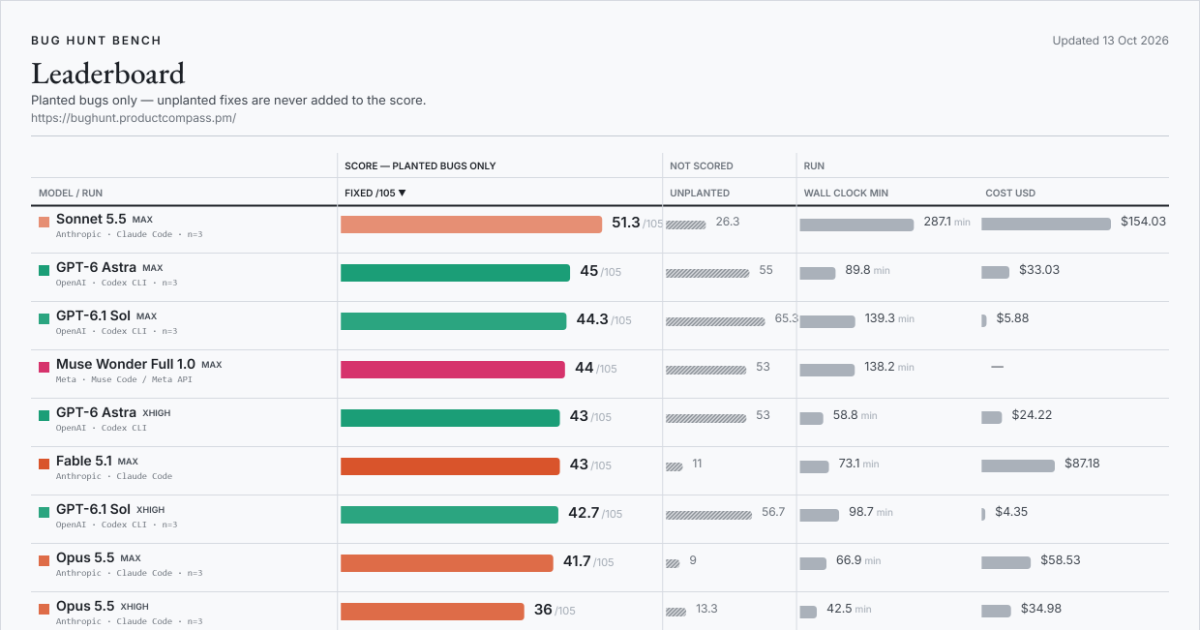
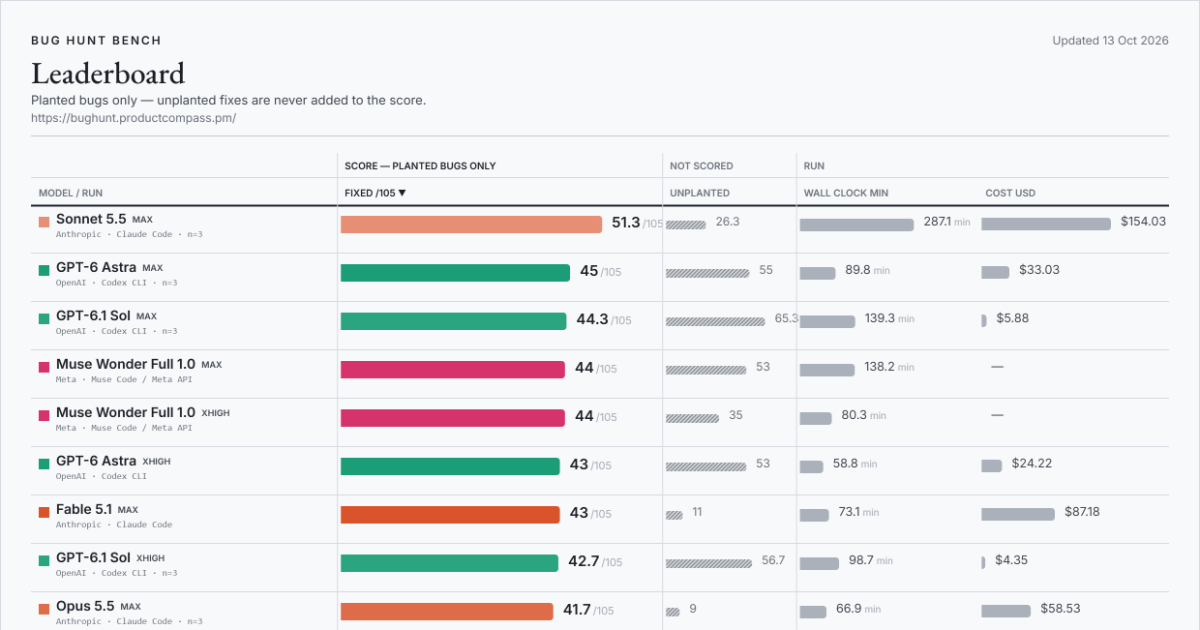
bug hunt bench: Muse Wonder Full 1.0 (xhigh effort, Muse Code, Meta API) (44/105)

diff --git a/index.html b/index.html
@@ -22,14 +22,14 @@
 <meta property="og:title" content="Bug Hunt Bench — frontier coding models against real planted bugs">
 <meta property="og:description" content="A blind-graded benchmark of frontier coding models on real bugs planted in two production codebases. The score counts planted bugs only; extra fixes are tracked separately and never added.">
 <meta property="og:url" content="https://bughunt.productcompass.pm/">
-<meta property="og:image" content="https://bughunt.productcompass.pm/og-image.png?v=2026-10-13-246ea0fc">
+<meta property="og:image" content="https://bughunt.productcompass.pm/og-image.png?v=2026-10-13-b0c07f66">
 <meta property="og:image:width" content="1200">
 <meta property="og:image:height" content="630">
 <meta property="og:image:alt" content="Bug Hunt Bench leaderboard">
 <meta name="twitter:card" content="summary_large_image">
 <meta name="twitter:title" content="Bug Hunt Bench — frontier coding models against real planted bugs">
 <meta name="twitter:description" content="A blind-graded benchmark of frontier coding models on real bugs planted in two production codebases. The score counts planted bugs only.">
-<meta name="twitter:image" content="https://bughunt.productcompass.pm/og-image.png?v=2026-10-13-246ea0fc">
+<meta name="twitter:image" content="https://bughunt.productcompass.pm/og-image.png?v=2026-10-13-b0c07f66">
 <meta name="twitter:creator" content="@PawelHuryn">
 
 <link rel="icon" href="/assets/favicon.svg" type="image/svg+xml">

diff --git a/method.html b/method.html
@@ -20,14 +20,14 @@
 <meta property="og:title" content="Method, caveats and definitions — Bug Hunt Bench">
 <meta property="og:description" content="How Bug Hunt Bench is run and graded, what the board cannot tell you, and what every column on it means.">
 <meta property="og:url" content="https://bughunt.productcompass.pm/method">
-<meta property="og:image" content="https://bughunt.productcompass.pm/og-image.png?v=2026-10-13-246ea0fc">
+<meta property="og:image" content="https://bughunt.productcompass.pm/og-image.png?v=2026-10-13-b0c07f66">
 <meta property="og:image:width" content="1200">
 <meta property="og:image:height" content="630">
 <meta property="og:image:alt" content="Bug Hunt Bench leaderboard">
 <meta name="twitter:card" content="summary_large_image">
 <meta name="twitter:title" content="Method, caveats and definitions — Bug Hunt Bench">
 <meta name="twitter:description" content="How Bug Hunt Bench is run and graded, what the board cannot tell you, and what every column on it means.">
-<meta name="twitter:image" content="https://bughunt.productcompass.pm/og-image.png?v=2026-10-13-246ea0fc">
+<meta name="twitter:image" content="https://bughunt.productcompass.pm/og-image.png?v=2026-10-13-b0c07f66">
 <meta name="twitter:creator" content="@PawelHuryn">
 
 <link rel="icon" href="/assets/favicon.svg" type="image/svg+xml">

diff --git a/README.md b/README.md
@@ -7,9 +7,9 @@
 If the numbers save you a benchmark run of your own, **star this repo** — that is what keeps the bench findable, and new models are added as they ship.
 
 <!-- leaderboard:start -->
-![Bug Hunt Bench leaderboard, the featured runs, updated Oct 13, 2026](assets/leaderboard.png?v=2026-10-13-b50dc523)
+![Bug Hunt Bench leaderboard, the featured runs, updated Oct 13, 2026](assets/leaderboard.png?v=2026-10-13-9cc1eea6)
 
-**Updated Oct 13, 2026 · 177 rows from 215 scored runs · 46 models · 29 of 105 bugs have never been fixed by any model.**
+**Updated Oct 13, 2026 · 178 rows from 216 scored runs · 46 models · 28 of 105 bugs have never been fixed by any model.**
 
 **Current leader:** Sonnet 5.5 at `max` effort — **51.3 / 105** (22.7/45 on repo 1, 28.7/60 on repo 2).
 
@@ -21,114 +21,115 @@ If the numbers save you a benchmark run of your own, **star this repo** — that
 | 2 | GPT-6 Astra | Codex CLI | max | 3 | **45** | 22 | 23 | 55 | 90 min | $33.03 | 2026-09-14 |
 | 3 | GPT-6.1 Sol | Codex CLI | max | 3 | **44.3** | 22.3 | 22 | 65.3 | 139 min | $5.88 | 2026-09-30 |
 | 4 | Muse Wonder Full 1.0 | Muse Code / Meta API | max | 1 | **44** | 22 | 22 | 53 | 138 min | — | 2026-10-13 |
-| 5 | GPT-5.6 Sol | Codex CLI | max | 2 | **43.5** | 19 | 24.5 | 48.5 | 253 min | $95.35 | 2026-09-16 |
-| 6 | GPT-6 Astra | Codex CLI | xhigh | 1 | **43** | 23 | 20 | 53 | 59 min | $24.22 | 2026-09-04 |
-| 7 | Fable 5.1 | Claude Code | max | 1 | **43** | 19 | 24 | 11 | 73 min | $87.18 | 2026-09-01 |
-| 8 | GPT-6.1 Sol | Codex CLI | xhigh | 3 | **42.7** | 22.3 | 20.3 | 56.7 | 99 min | $4.35 | 2026-09-30 |
-| 9 | Opus 5.5 | Claude Code | max | 3 | **41.7** | 19 | 22.7 | 9 | 67 min | $58.53 | 2026-09-23 |
-| 10 | GPT-5.6 Sol | Codex CLI | xhigh | 1 | **39** | 18 | 21 | 59 | 126 min | $52.75 | 2026-08-28 |
-| 11 | GPT-6.1 Sol | Codex CLI | high | 2 | **36.5** | 17 | 19.5 | 40 | 70 min | $3.26 | 2026-09-30 |
-| 12 | Opus 5.5 | Claude Code | xhigh | 3 | **36** | 17 | 19 | 13.3 | 42 min | $34.98 | 2026-09-23 |
-| 13 | Sonnet 5.5 | Claude Code | xhigh | 3 | **36** | 16 | 20 | 14 | 73 min | $42.86 | 2026-09-29 |
-| 14 | GPT-6 Astra | Codex CLI | high | 1 | **35** | 19 | 16 | 40 | 40 min | $20.60 | 2026-09-04 |
-| 15 | Sonnet 5.5 | Claude Code | high | 3 | **34.3** | 15.7 | 18.7 | 10.7 | 28 min | $19.85 | 2026-09-29 |
-| 16 | GPT-6 Astra | Codex CLI | medium | 1 | **34** | 19 | 15 | 33 | 28 min | $15.78 | 2026-09-05 |
-| 17 | GPT-5.6 Sol | Codex CLI | high | 1 | **34** | 13 | 21 | 28 | 67 min | $33.92 | 2026-07-31 |
-| 18 | Gemini 4 Argon | Gemini CLI | high | 1 | **33** | 15 | 18 | 7 | 85 min | $32.08 | 2026-10-13 |
-| 19 | Fable 5.1 | Claude Code | high | 1 | **33** | 15 | 18 | 7 | 36 min | $48.58 | 2026-09-01 |
-| 20 | Muse Spark 1.3 | Muse Code / Meta API | max | 5 | **32.2** | 14.2 | 18 | 24 | 86 min | $18.11 | 2026-09-17 |
-| 21 | GPT-5.6 Terra | Codex CLI | max | 1 | **32** | 16 | 16 | 45 | 160 min | $27.98 | 2026-08-27 |
-| 22 | Opus 5.5 | Claude Code | high | 3 | **31.7** | 13 | 18.7 | 10.7 | 24 min | $22.25 | 2026-09-23 |
-| 23 | Muse Wonder 1.0 | Muse Code / Meta API | max | 3 | **31.7** | 12 | 19.7 | 13.3 | 96 min | $27.87 | 2026-10-13 |
-| 24 | GPT-5.6 Luna | Codex CLI | max | 3 | **31.3** | 16 | 15.3 | 54.7 | 187 min | $3.15 | 2026-09-22 |
-| 25 | Pareto (ex-Union Alpha) | Claude Code / OpenRouter | default | 3 | **30.7** | 16 | 14.7 | 10.3 | 38 min | $4.81 | 2026-09-17 |
-| 26 | Opus 5.5 | Claude Code | medium | 3 | **30.3** | 12.7 | 17.7 | 13.3 | 17 min | $15.68 | 2026-09-23 |
-| 27 | GPT-6 Sol | Codex CLI | max | 3 | **29.3** | 15.3 | 14 | 41.3 | 63 min | $9.33 | 2026-09-23 |
-| 28 | GPT-6.1 Sol | Codex CLI | medium | 2 | **29** | 16 | 13 | 30.5 | 30 min | $1.76 | 2026-09-30 |
-| 29 | GPT-5.6 Sol | Codex CLI | medium | 1 | **29** | 13 | 16 | 24 | 48 min | $15.77 | 2026-09-06 |
-| 30 | Grok 4.7 | Grok Build CLI (ACP) | xhigh | 5 | **29** | 13 | 16 | 32.2 | 45 min | $22.96 floor | 2026-10-08 |
-| 31 | Fable 5.1 | Claude Code | low | 1 | **29** | 13 | 16 | 6 | 33 min | $33.00 | 2026-09-02 |
-| 32 | Fable 5.1 | Claude Code | xhigh | 1 | **29** | 13 | 16 | 4 | 60 min | $53.61 | 2026-09-10 |
-| 33 | Fable 5 | Claude Code | max | 1 | **29** | 12 | 17 | 5 | 57 min | $112.40 | 2026-08-01 |
-| 34 | Grok 4.6 | Grok Build CLI (ACP) | xhigh | 3 | **28.7** | 11.7 | 17 | 18 | 43 min | $18.60 floor | 2026-09-14 |
-| 35 | GPT-6 Astra | Codex CLI | low | 1 | **27** | 18 | 9 | 25 | 32 min | $11.69 | 2026-09-05 |
-| 36 | Opus 5 | Claude Code | max | 1 | **27** | 13 | 14 | 2 | 60 min | $54.94 | 2026-08-01 |
-| 37 | Grok 4.7 | Grok Build CLI (ACP) | medium | 3 | **26.7** | 12 | 14.7 | 22.7 | 31 min | $16.76 floor | 2026-09-21 |
-| 38 | Qwen3.8-Flash | Claude Code / Alibaba API | max | 1 | **26** | 13 | 13 | 7 | 97 min | $1.81 | 2026-09-11 |
-| 39 | Opus 5 | Claude Code | xhigh | 1 | **26** | 14 | 12 | 3 | 50 min | $63.25 | 2026-08-28 |
-| 40 | Qwen3.8-Max | Claude Code / Alibaba API | max | 3 | **25.7** | 12.3 | 13.3 | 7 | 117 min | $26.76 | 2026-09-15 |
-| 41 | GPT-6 Sol | Codex CLI | xhigh | 1 | **25** | 10 | 15 | 24 | 51 min | $7.67 | 2026-09-23 |
-| 42 | Opus 5 | Claude Code | medium | 1 | **24** | 11 | 13 | 4 | 30 min | $37.40 | 2026-08-27 |
-| 43 | Fable 5 | Claude Code | high | 1 | **24** | 9 | 15 | 3 | 31 min | $74.52 | 2026-07-26 |
-| 44 | MiMo-V2.6-Flash | Claude Code / OpenRouter | default | 3 | **23.3** | 8 | 15.3 | 7.3 | 71 min | $0.49 bill | 2026-09-22 |
-| 45 | Sonnet 5.5 | Claude Code | medium | 3 | **23.3** | 8.7 | 14.7 | 8.7 | 17 min | $11.11 | 2026-09-30 |
-| 46 | Qwen3.8-Flash | Claude Code / Alibaba API | low | 1 | **23** | 11 | 12 | 7 | 98 min | $1.37 | 2026-09-11 |
-| 47 | GPT-5.6 Luna | Codex CLI | xhigh | 1 | **23** | 10 | 13 | 53 | 136 min | $2.50 | 2026-08-28 |
-| 48 | Grok 4.6 | Grok Build CLI (ACP) | high | 1 | **23** | 7 | 16 | 16 | 33 min | $15.73 floor | 2026-08-28 |
-| 49 | MiMo-V2.6-Pro | Claude Code / OpenRouter | default | 3 | **22.7** | 11.3 | 11.3 | 5.3 | 91 min | $0.86 bill | 2026-09-22 |
-| 50 | GPT-6.1 Sol | Codex CLI | low | 2 | **22.5** | 11.5 | 11 | 24 | 25 min | $1.34 | 2026-10-01 |
-| 51 | Opus 5.5 | Claude Code | low | 3 | **22.3** | 11.3 | 11 | 9.7 | 12 min | $8.34 | 2026-09-23 |
-| 52 | Grok 4.6 | Grok Build CLI (ACP) | medium | 1 | **22** | 9 | 13 | 11 | 26 min | $5.80 floor | 2026-08-28 |
-| 53 | Gemini 3.7 Flash | Gemini CLI (retired) + model-pinning gateway | high | 1 | **22** | 8 | 14 | 4 | 97 min | $8.43 | 2026-08-24 |
-| 54 | DeepSeek V4.1 Flash | Claude Code / DeepSeek API | max | 3 | **21.7** | 11.3 | 10.3 | 6.7 | 56 min | $0.78 bill | 2026-09-15 |
-| 55 | Haiku 5.5 | Claude Code | max | 2 | **21.5** | 10 | 11.5 | 9 | 32 min | $5.83 | 2026-10-07 |
-| 56 | Fable 5.1 | Claude Code | medium | 1 | **21** | 8 | 13 | 3 | 23 min | $23.73 | 2026-09-10 |
-| 57 | Kimi K3 | Claude Code / OpenRouter | default | 1 | **21** | 4 | 17 | 6 | 108 min | $25.27 | 2026-07-26 |
-| 58 | Opus 5 | Claude Code | high | 1 | **21** | 11 | 10 | 6 | 37 min | $41.51 | 2026-07-26 |
-| 59 | Muse Spark 1.3 | Muse Code / Meta API | xhigh | 3 | **20.3** | 8 | 12.3 | 13.3 | 64 min | $13.71 | 2026-09-14 |
-| 60 | GPT-6 Sol | Codex CLI | high | 1 | **20** | 10 | 10 | 15 | 34 min | $4.16 | 2026-09-23 |
-| 61 | GPT-5.6 Terra | Codex CLI | xhigh | 1 | **20** | 9 | 11 | 29 | 57 min | $8.98 | 2026-08-28 |
-| 62 | Grok 4.7 | Grok Build CLI (ACP) | high | 3 | **19.3** | 8.7 | 10.7 | 15.7 | 38 min | $12.29 floor | 2026-09-21 |
-| 63 | DeepSeek V4.1 Flash | Claude Code / DeepSeek API | high | 1 | **19** | 9 | 10 | 4 | 26 min | $0.31 bill | 2026-09-10 |
-| 64 | Sonnet 5.5 | Claude Code | low | 3 | **19** | 6.7 | 12.3 | 8 | 8 min | $5.73 | 2026-09-30 |
-| 65 | GLM-5.3 | Claude Code / Z.ai API | max | 1 | **19** | 9 | 10 | 2 | 40 min | $15.93 | 2026-09-10 |
-| 66 | Muse Spark 1.3 | Muse Code / Meta API | high | 3 | **18.7** | 8.7 | 10 | 19.3 | 76 min | $12.94 | 2026-09-14 |
-| 67 | GPT-6 Luna | Codex CLI | max | 3 | **18.3** | 6.3 | 12 | 22.7 | 99 min | $0.52 | 2026-09-23 |
-| 68 | Haiku 5.5 | Claude Code | xhigh | 3 | **18.3** | 9 | 9.3 | 6.7 | 24 min | $4.80 | 2026-10-07 |
-| 69 | MiMo-V2.6-Pro | Claude Code / Xiaomi first-party | enabled | 1 | **18** | 9 | 9 | 4 | 75 min | $0.59 | 2026-09-22 |
-| 70 | Hy4 Preview | Claude Code / OpenRouter | default | 1 | **18** | 9 | 9 | 2 | 68 min | $3.13 bill | 2026-08-28 |
-| 71 | GPT-5.6 Terra | Codex CLI | high | 1 | **18** | 7 | 11 | 17 | 28 min | $5.89 | 2026-08-27 |
-| 72 | Gemini 3.8 Flash | Antigravity CLI | high | 3 | **18** | 6.7 | 11.3 | 4 | 39 min | $11.03 | 2026-09-15 |
-| 73 | GLM-5.3 Flash | Claude Code / Z.ai API | max | 3 | **17.7** | 9.3 | 8.3 | 3.3 | 63 min | $1.03 | 2026-09-15 |
-| 74 | Grok 4.5 | Grok Build CLI (ACP) | high | 1 | **17** | 5 | 12 | 10 | 28 min | $8.50 floor | 2026-08-06 |
-| 75 | Muse Spark 1.2 | Claude Code / Meta API | xhigh | 1 | **17** | 6 | 11 | 12 | 36 min | $13.99 | 2026-08-06 |
-| 76 | Ox Alpha (stealth) | Claude Code / OpenRouter | default | 1 | **16** | 8 | 8 | 3 | 59 min | free | 2026-08-25 |
-| 77 | GLM-5.3 Flash | Claude Code / Z.ai API | high | 1 | **16** | 9 | 7 | 4 | 62 min | $0.94 | 2026-09-13 |
-| 78 | DeepSeek V4-Pro | Claude Code / DeepSeek API | max | 1 | **16** | 8 | 8 | 4 | 37 min | $1.89 bill | 2026-09-10 |
-| 79 | Haiku 5.5 | Claude Code | high | 2 | **16** | 5 | 11 | 4 | 19 min | $3.56 | 2026-10-07 |
-| 80 | Gemini 3.7 Flash | Antigravity CLI | high | 1 | **16** | 4 | 12 | 2 | 23 min | $6.36 | 2026-08-28 |
-| 81 | Grok 4.7 | Grok Build CLI (ACP) | low | 3 | **15.7** | 10.3 | 5.3 | 18.3 | 22 min | $9.36 floor | 2026-09-21 |
-| 82 | GPT-5.6 Terra | Codex CLI | medium | 1 | **15** | 4 | 11 | 6 | 20 min | $3.87 | 2026-08-27 |
-| 83 | Grok 4.6 | Grok Build CLI (ACP) | low | 1 | **15** | 6 | 9 | 9 | 18 min | $4.14 floor | 2026-08-27 |
-| 84 | Qwen3.8-27B | Claude Code / Alibaba API | xhigh | 3 | **15** | 5.7 | 9.3 | 2.3 | 57 min | $5.55 | 2026-09-15 |
-| 85 | Mistral Large 4 | Claude Code / OpenRouter | high | 3 | **15** | 5 | 10 | 3.3 | 111 min | $11.95 bill | 2026-10-07 |
-| 86 | Opus 4.8 | Claude Code | max | 1 | **15** | 6 | 9 | 3 | 109 min | $58.11 | 2026-09-10 |
-| 87 | GPT-6 Luna | Codex CLI | xhigh | 1 | **14** | 4 | 10 | 12 | 57 min | $0.39 | 2026-09-23 |
-| 88 | DeepSeek V4-Flash | Claude Code / OpenRouter | default | 1 | **14** | 6 | 8 | 0 | 48 min | $1.52 bill | 2026-08-01 |
-| 89 | GPT-6 Sol | Codex CLI | medium | 1 | **14** | 3 | 11 | 13 | 24 min | $2.39 | 2026-09-23 |
-| 90 | GPT-5.6 Luna | Codex CLI | high | 1 | **13** | 5 | 8 | 22 | 64 min | $0.57 | 2026-07-31 |
-| 91 | GLM-5.3 Flash | Claude Code / OpenRouter | default | 1 | **13** | 6 | 7 | 4 | 57 min | $0.79 bill | 2026-08-27 |
-| 92 | DeepSeek V4-Pro | Claude Code / DeepSeek API | high | 1 | **13** | 4 | 9 | 1 | 27 min | $1.08 bill | 2026-09-10 |
-| 93 | Muse Spark 1.3 | Muse Code / Meta API | medium | 3 | **13** | 5.3 | 7.7 | 17.3 | 58 min | $9.24 | 2026-09-14 |
-| 94 | Haiku 5.5 | Claude Code | medium | 1 | **12** | 5 | 7 | 4 | 16 min | $2.66 | 2026-10-08 |
-| 95 | Haiku 5.5 | Claude Code | low | 1 | **11** | 4 | 7 | 2 | 9 min | $1.61 | 2026-10-08 |
-| 96 | Qwen3.8-27B 8-bit | Claude Code / OpenRouter | default | 3 | **10.7** | 3.7 | 7 | 1.7 | 57 min | $2.97 bill | 2026-09-16 |
-| 97 | Muse Spark 1.3 | Muse Code / Meta API | low | 3 | **9.7** | 5 | 4.7 | 6.7 | 36 min | $5.61 | 2026-09-14 |
-| 98 | GPT-6 Luna | Codex CLI | high | 1 | **9** | 2 | 7 | 9 | 24 min | $0.13 | 2026-09-23 |
-| 99 | GPT-5.6 Luna | Codex CLI | medium | 1 | **9** | 5 | 4 | 5 | 15 min | $0.33 | 2026-08-27 |
-| 100 | GLM-5.3 Flash | Claude Code / Z.ai API | low | 1 | **9** | 7 | 2 | 4 | 29 min | $0.42 | 2026-09-13 |
-| 101 | Sonnet 5 | Claude Code | high | 1 | **9** | 1 | 8 | 4 | 33 min | $11.38 | 2026-07-26 |
-| 102 | Sonnet 5 | Claude Code | max | 1 | **9** | 3 | 6 | 3 | 61 min | $17.96 | 2026-09-10 |
-| 103 | Opus 4.8 | Claude Code | high | 1 | **9** | 2 | 7 | 1 | 35 min | $21.30 | 2026-07-26 |
-| 104 | GPT-6 Sol | Codex CLI | low | 1 | **6** | 3 | 3 | 5 | 11 min | $1.08 | 2026-09-23 |
-| 105 | GPT-6 Luna | Codex CLI | medium | 1 | **4** | 2 | 2 | 0 | 9 min | $0.06 | 2026-09-23 |
-| 106 | GPT-5.6 Luna | Codex CLI | low | 1 | **4** | 0 | 4 | 1 | 6 min | $0.10 | 2026-08-27 |
-| 107 | GPT-6 Luna | Codex CLI | low | 1 | **4** | 1 | 3 | 9 | 19 min | $0.20 | 2026-09-23 |
-| 108 | Gemma 4 31B | Claude Code / OpenRouter | default | 1 | **4** | 1 | 3 | 2 | 222 min | $8.61 bill | 2026-09-16 |
-| 109 | Gemma 4 31B 4-bit | Claude Code / OpenRouter | default | 1 | **3** | 1 | 2 | 2 | 25 min | $0.56 bill | 2026-09-16 |
-| 110 | Haiku 4.5 | Claude Code | default | 2 | **1.5** | 0.5 | 1 | 2.5 | 17 min | $2.22 | 2026-10-08 |
-| 111 | gpt-oss-120b | Claude Code / OpenRouter | default | 3 | **0** | 0 | 0 | 0.3 | 4 min | $0.11 bill | 2026-09-15 |
-| 112 | gpt-oss-20b | Claude Code / OpenRouter | default | 3 | **0** | 0 | 0 | 0 | 7 min | $0.11 bill | 2026-09-15 |
+| 5 | Muse Wonder Full 1.0 | Muse Code / Meta API | xhigh | 1 | **44** | 16 | 28 | 35 | 80 min | — | 2026-10-13 |
+| 6 | GPT-5.6 Sol | Codex CLI | max | 2 | **43.5** | 19 | 24.5 | 48.5 | 253 min | $95.35 | 2026-09-16 |
+| 7 | GPT-6 Astra | Codex CLI | xhigh | 1 | **43** | 23 | 20 | 53 | 59 min | $24.22 | 2026-09-04 |
+| 8 | Fable 5.1 | Claude Code | max | 1 | **43** | 19 | 24 | 11 | 73 min | $87.18 | 2026-09-01 |
+| 9 | GPT-6.1 Sol | Codex CLI | xhigh | 3 | **42.7** | 22.3 | 20.3 | 56.7 | 99 min | $4.35 | 2026-09-30 |
+| 10 | Opus 5.5 | Claude Code | max | 3 | **41.7** | 19 | 22.7 | 9 | 67 min | $58.53 | 2026-09-23 |
+| 11 | GPT-5.6 Sol | Codex CLI | xhigh | 1 | **39** | 18 | 21 | 59 | 126 min | $52.75 | 2026-08-28 |
+| 12 | GPT-6.1 Sol | Codex CLI | high | 2 | **36.5** | 17 | 19.5 | 40 | 70 min | $3.26 | 2026-09-30 |
+| 13 | Opus 5.5 | Claude Code | xhigh | 3 | **36** | 17 | 19 | 13.3 | 42 min | $34.98 | 2026-09-23 |
+| 14 | Sonnet 5.5 | Claude Code | xhigh | 3 | **36** | 16 | 20 | 14 | 73 min | $42.86 | 2026-09-29 |
+| 15 | GPT-6 Astra | Codex CLI | high | 1 | **35** | 19 | 16 | 40 | 40 min | $20.60 | 2026-09-04 |
+| 16 | Sonnet 5.5 | Claude Code | high | 3 | **34.3** | 15.7 | 18.7 | 10.7 | 28 min | $19.85 | 2026-09-29 |
+| 17 | GPT-6 Astra | Codex CLI | medium | 1 | **34** | 19 | 15 | 33 | 28 min | $15.78 | 2026-09-05 |
+| 18 | GPT-5.6 Sol | Codex CLI | high | 1 | **34** | 13 | 21 | 28 | 67 min | $33.92 | 2026-07-31 |
+| 19 | Gemini 4 Argon | Gemini CLI | high | 1 | **33** | 15 | 18 | 7 | 85 min | $32.08 | 2026-10-13 |
+| 20 | Fable 5.1 | Claude Code | high | 1 | **33** | 15 | 18 | 7 | 36 min | $48.58 | 2026-09-01 |
+| 21 | Muse Spark 1.3 | Muse Code / Meta API | max | 5 | **32.2** | 14.2 | 18 | 24 | 86 min | $18.11 | 2026-09-17 |
+| 22 | GPT-5.6 Terra | Codex CLI | max | 1 | **32** | 16 | 16 | 45 | 160 min | $27.98 | 2026-08-27 |
+| 23 | Opus 5.5 | Claude Code | high | 3 | **31.7** | 13 | 18.7 | 10.7 | 24 min | $22.25 | 2026-09-23 |
+| 24 | Muse Wonder 1.0 | Muse Code / Meta API | max | 3 | **31.7** | 12 | 19.7 | 13.3 | 96 min | $27.87 | 2026-10-13 |
+| 25 | GPT-5.6 Luna | Codex CLI | max | 3 | **31.3** | 16 | 15.3 | 54.7 | 187 min | $3.15 | 2026-09-22 |
+| 26 | Pareto (ex-Union Alpha) | Claude Code / OpenRouter | default | 3 | **30.7** | 16 | 14.7 | 10.3 | 38 min | $4.81 | 2026-09-17 |
+| 27 | Opus 5.5 | Claude Code | medium | 3 | **30.3** | 12.7 | 17.7 | 13.3 | 17 min | $15.68 | 2026-09-23 |
+| 28 | GPT-6 Sol | Codex CLI | max | 3 | **29.3** | 15.3 | 14 | 41.3 | 63 min | $9.33 | 2026-09-23 |
+| 29 | GPT-6.1 Sol | Codex CLI | medium | 2 | **29** | 16 | 13 | 30.5 | 30 min | $1.76 | 2026-09-30 |
+| 30 | GPT-5.6 Sol | Codex CLI | medium | 1 | **29** | 13 | 16 | 24 | 48 min | $15.77 | 2026-09-06 |
+| 31 | Grok 4.7 | Grok Build CLI (ACP) | xhigh | 5 | **29** | 13 | 16 | 32.2 | 45 min | $22.96 floor | 2026-10-08 |
+| 32 | Fable 5.1 | Claude Code | low | 1 | **29** | 13 | 16 | 6 | 33 min | $33.00 | 2026-09-02 |
+| 33 | Fable 5.1 | Claude Code | xhigh | 1 | **29** | 13 | 16 | 4 | 60 min | $53.61 | 2026-09-10 |
+| 34 | Fable 5 | Claude Code | max | 1 | **29** | 12 | 17 | 5 | 57 min | $112.40 | 2026-08-01 |
+| 35 | Grok 4.6 | Grok Build CLI (ACP) | xhigh | 3 | **28.7** | 11.7 | 17 | 18 | 43 min | $18.60 floor | 2026-09-14 |
+| 36 | GPT-6 Astra | Codex CLI | low | 1 | **27** | 18 | 9 | 25 | 32 min | $11.69 | 2026-09-05 |
+| 37 | Opus 5 | Claude Code | max | 1 | **27** | 13 | 14 | 2 | 60 min | $54.94 | 2026-08-01 |
+| 38 | Grok 4.7 | Grok Build CLI (ACP) | medium | 3 | **26.7** | 12 | 14.7 | 22.7 | 31 min | $16.76 floor | 2026-09-21 |
+| 39 | Qwen3.8-Flash | Claude Code / Alibaba API | max | 1 | **26** | 13 | 13 | 7 | 97 min | $1.81 | 2026-09-11 |
+| 40 | Opus 5 | Claude Code | xhigh | 1 | **26** | 14 | 12 | 3 | 50 min | $63.25 | 2026-08-28 |
+| 41 | Qwen3.8-Max | Claude Code / Alibaba API | max | 3 | **25.7** | 12.3 | 13.3 | 7 | 117 min | $26.76 | 2026-09-15 |
+| 42 | GPT-6 Sol | Codex CLI | xhigh | 1 | **25** | 10 | 15 | 24 | 51 min | $7.67 | 2026-09-23 |
+| 43 | Opus 5 | Claude Code | medium | 1 | **24** | 11 | 13 | 4 | 30 min | $37.40 | 2026-08-27 |
+| 44 | Fable 5 | Claude Code | high | 1 | **24** | 9 | 15 | 3 | 31 min | $74.52 | 2026-07-26 |
+| 45 | MiMo-V2.6-Flash | Claude Code / OpenRouter | default | 3 | **23.3** | 8 | 15.3 | 7.3 | 71 min | $0.49 bill | 2026-09-22 |
+| 46 | Sonnet 5.5 | Claude Code | medium | 3 | **23.3** | 8.7 | 14.7 | 8.7 | 17 min | $11.11 | 2026-09-30 |
+| 47 | Qwen3.8-Flash | Claude Code / Alibaba API | low | 1 | **23** | 11 | 12 | 7 | 98 min | $1.37 | 2026-09-11 |
+| 48 | GPT-5.6 Luna | Codex CLI | xhigh | 1 | **23** | 10 | 13 | 53 | 136 min | $2.50 | 2026-08-28 |
+| 49 | Grok 4.6 | Grok Build CLI (ACP) | high | 1 | **23** | 7 | 16 | 16 | 33 min | $15.73 floor | 2026-08-28 |
+| 50 | MiMo-V2.6-Pro | Claude Code / OpenRouter | default | 3 | **22.7** | 11.3 | 11.3 | 5.3 | 91 min | $0.86 bill | 2026-09-22 |
+| 51 | GPT-6.1 Sol | Codex CLI | low | 2 | **22.5** | 11.5 | 11 | 24 | 25 min | $1.34 | 2026-10-01 |
+| 52 | Opus 5.5 | Claude Code | low | 3 | **22.3** | 11.3 | 11 | 9.7 | 12 min | $8.34 | 2026-09-23 |
+| 53 | Grok 4.6 | Grok Build CLI (ACP) | medium | 1 | **22** | 9 | 13 | 11 | 26 min | $5.80 floor | 2026-08-28 |
+| 54 | Gemini 3.7 Flash | Gemini CLI (retired) + model-pinning gateway | high | 1 | **22** | 8 | 14 | 4 | 97 min | $8.43 | 2026-08-24 |
+| 55 | DeepSeek V4.1 Flash | Claude Code / DeepSeek API | max | 3 | **21.7** | 11.3 | 10.3 | 6.7 | 56 min | $0.78 bill | 2026-09-15 |
+| 56 | Haiku 5.5 | Claude Code | max | 2 | **21.5** | 10 | 11.5 | 9 | 32 min | $5.83 | 2026-10-07 |
+| 57 | Fable 5.1 | Claude Code | medium | 1 | **21** | 8 | 13 | 3 | 23 min | $23.73 | 2026-09-10 |
+| 58 | Kimi K3 | Claude Code / OpenRouter | default | 1 | **21** | 4 | 17 | 6 | 108 min | $25.27 | 2026-07-26 |
+| 59 | Opus 5 | Claude Code | high | 1 | **21** | 11 | 10 | 6 | 37 min | $41.51 | 2026-07-26 |
+| 60 | Muse Spark 1.3 | Muse Code / Meta API | xhigh | 3 | **20.3** | 8 | 12.3 | 13.3 | 64 min | $13.71 | 2026-09-14 |
+| 61 | GPT-6 Sol | Codex CLI | high | 1 | **20** | 10 | 10 | 15 | 34 min | $4.16 | 2026-09-23 |
+| 62 | GPT-5.6 Terra | Codex CLI | xhigh | 1 | **20** | 9 | 11 | 29 | 57 min | $8.98 | 2026-08-28 |
+| 63 | Grok 4.7 | Grok Build CLI (ACP) | high | 3 | **19.3** | 8.7 | 10.7 | 15.7 | 38 min | $12.29 floor | 2026-09-21 |
+| 64 | DeepSeek V4.1 Flash | Claude Code / DeepSeek API | high | 1 | **19** | 9 | 10 | 4 | 26 min | $0.31 bill | 2026-09-10 |
+| 65 | Sonnet 5.5 | Claude Code | low | 3 | **19** | 6.7 | 12.3 | 8 | 8 min | $5.73 | 2026-09-30 |
+| 66 | GLM-5.3 | Claude Code / Z.ai API | max | 1 | **19** | 9 | 10 | 2 | 40 min | $15.93 | 2026-09-10 |
+| 67 | Muse Spark 1.3 | Muse Code / Meta API | high | 3 | **18.7** | 8.7 | 10 | 19.3 | 76 min | $12.94 | 2026-09-14 |
+| 68 | GPT-6 Luna | Codex CLI | max | 3 | **18.3** | 6.3 | 12 | 22.7 | 99 min | $0.52 | 2026-09-23 |
+| 69 | Haiku 5.5 | Claude Code | xhigh | 3 | **18.3** | 9 | 9.3 | 6.7 | 24 min | $4.80 | 2026-10-07 |
+| 70 | MiMo-V2.6-Pro | Claude Code / Xiaomi first-party | enabled | 1 | **18** | 9 | 9 | 4 | 75 min | $0.59 | 2026-09-22 |
+| 71 | Hy4 Preview | Claude Code / OpenRouter | default | 1 | **18** | 9 | 9 | 2 | 68 min | $3.13 bill | 2026-08-28 |
+| 72 | GPT-5.6 Terra | Codex CLI | high | 1 | **18** | 7 | 11 | 17 | 28 min | $5.89 | 2026-08-27 |
+| 73 | Gemini 3.8 Flash | Antigravity CLI | high | 3 | **18** | 6.7 | 11.3 | 4 | 39 min | $11.03 | 2026-09-15 |
+| 74 | GLM-5.3 Flash | Claude Code / Z.ai API | max | 3 | **17.7** | 9.3 | 8.3 | 3.3 | 63 min | $1.03 | 2026-09-15 |
+| 75 | Grok 4.5 | Grok Build CLI (ACP) | high | 1 | **17** | 5 | 12 | 10 | 28 min | $8.50 floor | 2026-08-06 |
+| 76 | Muse Spark 1.2 | Claude Code / Meta API | xhigh | 1 | **17** | 6 | 11 | 12 | 36 min | $13.99 | 2026-08-06 |
+| 77 | Ox Alpha (stealth) | Claude Code / OpenRouter | default | 1 | **16** | 8 | 8 | 3 | 59 min | free | 2026-08-25 |
+| 78 | GLM-5.3 Flash | Claude Code / Z.ai API | high | 1 | **16** | 9 | 7 | 4 | 62 min | $0.94 | 2026-09-13 |
+| 79 | DeepSeek V4-Pro | Claude Code / DeepSeek API | max | 1 | **16** | 8 | 8 | 4 | 37 min | $1.89 bill | 2026-09-10 |
+| 80 | Haiku 5.5 | Claude Code | high | 2 | **16** | 5 | 11 | 4 | 19 min | $3.56 | 2026-10-07 |
+| 81 | Gemini 3.7 Flash | Antigravity CLI | high | 1 | **16** | 4 | 12 | 2 | 23 min | $6.36 | 2026-08-28 |
+| 82 | Grok 4.7 | Grok Build CLI (ACP) | low | 3 | **15.7** | 10.3 | 5.3 | 18.3 | 22 min | $9.36 floor | 2026-09-21 |
+| 83 | GPT-5.6 Terra | Codex CLI | medium | 1 | **15** | 4 | 11 | 6 | 20 min | $3.87 | 2026-08-27 |
+| 84 | Grok 4.6 | Grok Build CLI (ACP) | low | 1 | **15** | 6 | 9 | 9 | 18 min | $4.14 floor | 2026-08-27 |
+| 85 | Qwen3.8-27B | Claude Code / Alibaba API | xhigh | 3 | **15** | 5.7 | 9.3 | 2.3 | 57 min | $5.55 | 2026-09-15 |
+| 86 | Mistral Large 4 | Claude Code / OpenRouter | high | 3 | **15** | 5 | 10 | 3.3 | 111 min | $11.95 bill | 2026-10-07 |
+| 87 | Opus 4.8 | Claude Code | max | 1 | **15** | 6 | 9 | 3 | 109 min | $58.11 | 2026-09-10 |
+| 88 | GPT-6 Luna | Codex CLI | xhigh | 1 | **14** | 4 | 10 | 12 | 57 min | $0.39 | 2026-09-23 |
+| 89 | DeepSeek V4-Flash | Claude Code / OpenRouter | default | 1 | **14** | 6 | 8 | 0 | 48 min | $1.52 bill | 2026-08-01 |
+| 90 | GPT-6 Sol | Codex CLI | medium | 1 | **14** | 3 | 11 | 13 | 24 min | $2.39 | 2026-09-23 |
+| 91 | GPT-5.6 Luna | Codex CLI | high | 1 | **13** | 5 | 8 | 22 | 64 min | $0.57 | 2026-07-31 |
+| 92 | GLM-5.3 Flash | Claude Code / OpenRouter | default | 1 | **13** | 6 | 7 | 4 | 57 min | $0.79 bill | 2026-08-27 |
+| 93 | DeepSeek V4-Pro | Claude Code / DeepSeek API | high | 1 | **13** | 4 | 9 | 1 | 27 min | $1.08 bill | 2026-09-10 |
+| 94 | Muse Spark 1.3 | Muse Code / Meta API | medium | 3 | **13** | 5.3 | 7.7 | 17.3 | 58 min | $9.24 | 2026-09-14 |
+| 95 | Haiku 5.5 | Claude Code | medium | 1 | **12** | 5 | 7 | 4 | 16 min | $2.66 | 2026-10-08 |
+| 96 | Haiku 5.5 | Claude Code | low | 1 | **11** | 4 | 7 | 2 | 9 min | $1.61 | 2026-10-08 |
+| 97 | Qwen3.8-27B 8-bit | Claude Code / OpenRouter | default | 3 | **10.7** | 3.7 | 7 | 1.7 | 57 min | $2.97 bill | 2026-09-16 |
+| 98 | Muse Spark 1.3 | Muse Code / Meta API | low | 3 | **9.7** | 5 | 4.7 | 6.7 | 36 min | $5.61 | 2026-09-14 |
+| 99 | GPT-6 Luna | Codex CLI | high | 1 | **9** | 2 | 7 | 9 | 24 min | $0.13 | 2026-09-23 |
+| 100 | GPT-5.6 Luna | Codex CLI | medium | 1 | **9** | 5 | 4 | 5 | 15 min | $0.33 | 2026-08-27 |
+| 101 | GLM-5.3 Flash | Claude Code / Z.ai API | low | 1 | **9** | 7 | 2 | 4 | 29 min | $0.42 | 2026-09-13 |
+| 102 | Sonnet 5 | Claude Code | high | 1 | **9** | 1 | 8 | 4 | 33 min | $11.38 | 2026-07-26 |
+| 103 | Sonnet 5 | Claude Code | max | 1 | **9** | 3 | 6 | 3 | 61 min | $17.96 | 2026-09-10 |
+| 104 | Opus 4.8 | Claude Code | high | 1 | **9** | 2 | 7 | 1 | 35 min | $21.30 | 2026-07-26 |
+| 105 | GPT-6 Sol | Codex CLI | low | 1 | **6** | 3 | 3 | 5 | 11 min | $1.08 | 2026-09-23 |
+| 106 | GPT-6 Luna | Codex CLI | medium | 1 | **4** | 2 | 2 | 0 | 9 min | $0.06 | 2026-09-23 |
+| 107 | GPT-5.6 Luna | Codex CLI | low | 1 | **4** | 0 | 4 | 1 | 6 min | $0.10 | 2026-08-27 |
+| 108 | GPT-6 Luna | Codex CLI | low | 1 | **4** | 1 | 3 | 9 | 19 min | $0.20 | 2026-09-23 |
+| 109 | Gemma 4 31B | Claude Code / OpenRouter | default | 1 | **4** | 1 | 3 | 2 | 222 min | $8.61 bill | 2026-09-16 |
+| 110 | Gemma 4 31B 4-bit | Claude Code / OpenRouter | default | 1 | **3** | 1 | 2 | 2 | 25 min | $0.56 bill | 2026-09-16 |
+| 111 | Haiku 4.5 | Claude Code | default | 2 | **1.5** | 0.5 | 1 | 2.5 | 17 min | $2.22 | 2026-10-08 |
+| 112 | gpt-oss-120b | Claude Code / OpenRouter | default | 3 | **0** | 0 | 0 | 0.3 | 4 min | $0.11 bill | 2026-09-15 |
+| 113 | gpt-oss-20b | Claude Code / OpenRouter | default | 3 | **0** | 0 | 0 | 0 | 7 min | $0.11 bill | 2026-09-15 |
 
 **Runs** is how many independent runs the row is built from. A row at `1` is a single measurement. A row above `1` is the MEAN of that many runs of an identical configuration - same model, prompt, harness, route, effort flag and judge - and every count, wall and cost on it is averaged, which is why those rows carry a decimal. The individual runs behind a mean are published in full in the metrics CSVs, so the spread stays auditable: this board has measured a 9-point range of 105 on a fixed configuration, so a single run is not a measurement of a model, and two rows at `1` that differ by a few points may not differ at all.
 

diff --git a/results/run-notes.md b/results/run-notes.md
@@ -2,7 +2,7 @@
 
 Every row on the board, with the note and caveat it carries. Generated from `data/benchmark.json` by `bench_golive.py` - do not edit by hand.
 
-Updated Oct 13, 2026 · 177 rows from 215 scored runs. Superseded rows are listed last.
+Updated Oct 13, 2026 · 178 rows from 216 scored runs. Superseded rows are listed last.
 
 ## Sonnet 5.5 (max effort) - mean of 3
 
@@ -35,6 +35,14 @@ OpenAI's GPT-6.1 Sol at max effort through OpenAI's own Codex CLI, on a ChatGPT 
 **Caveat.** One run (44 of 105). Cost unknown: Meta publishes no price for this model. Effort max is the top tier Meta lists for it, not magnitude-probed. Both repos ran at the same time.
 
 Meta's Muse Wonder Full 1.0 at max effort through Muse Code, Meta's own agent CLI, released 2026-10-12 alongside Muse Wonder 1.0. ONE RUN: 44 of 105 - 22 of 45 on repo 1 and 22 of 60 on repo 2 - with 2 partial fix(es), 0 claimed-only and 53 genuine unplanted extras; 138.2 minutes. *** AGAINST MUSE WONDER 1.0 *** same harness, route and effort: Wonder's mean of three is 31.7 (30, 36 and 29), 12.0 on repo 1 and 19.7 on repo 2. Full's lead is almost all on repo 1 (22 against 12.0); on repo 2 it sits near the top of Wonder's range. Muse Spark 1.3 at max stands at 32.2. A single run: Wonder's own three runs spread 7 points. *** COST UNKNOWN *** Meta publishes no rate for Full - its own model catalog lists the cost as empty and no aggregator carries the model - so the cost column is left blank rather than estimated. Tokens are exact: 108 million across both repos, 104 million of them cache reads. The run used a subscription, so there is no bill either. *** EFFORT max *** the top entry of the effort list Muse Code's model catalog gives this model (minimal to max); not magnitude-probed. The tier describes Muse Code's main loop; its reminder-observer side agent runs at its own fixed efforts. *** RECEIPTS *** Both legs exited 0, run at the same time. Muse Code 1.4.1 (1.4.1-R4503.1). Every leg shared the laptop with another arm, which the wall marker discloses - scores, tokens and cost are untouched by that, only the clock. Judge: blind Codex gpt-5.5, which is neither this model nor a sibling of it.
+
+## Muse Wonder Full 1.0 (xhigh effort, Muse Code, Meta API)
+
+**44 / 105** · repo 1 16/45 · repo 2 28/60 · 35 unplanted · 80.3 min · — · `xhigh` · Muse Code / Meta API · single run · 2026-10-13
+
+**Caveat.** One run (44 of 105). Cost unknown: Meta publishes no price for this model. Effort xhigh is one tier below max, not magnitude-probed. Both repos ran at the same time.
+
+Meta's Muse Wonder Full 1.0 at xhigh effort - one tier below max - through Muse Code, Meta's own agent CLI. ONE RUN: 44 of 105 - 16 of 45 on repo 1 and 28 of 60 on repo 2 - with 3 partial fix(es), 0 claimed-only and 35 genuine unplanted extras; 80.3 minutes. *** AGAINST MAX *** the same model at max, also one run, scored 44 (22 on repo 1, 22 on repo 2) in 138.2 minutes. The totals land together and the split does not: max led on repo 1, xhigh on repo 2. With one run each, the two tiers are not separated here. Muse Wonder 1.0 at max stands at 31.7 (mean of three) and Muse Spark 1.3 at max at 32.2. *** COST UNKNOWN *** Meta publishes no rate for Full - its own model catalog lists the cost as empty - so the cost column is left blank rather than estimated. Tokens are exact: 72 million across both repos. The run used a subscription, so there is no bill either. *** EFFORT xhigh *** a tier in the effort list Muse Code's model catalog gives this model (minimal to max); not magnitude-probed, not the ceiling. The tier describes Muse Code's main loop; its reminder-observer side agent runs at its own fixed efforts. *** RECEIPTS *** Both legs exited 0, run at the same time. Muse Code 1.4.1 (1.4.1-R4503.1). Every leg shared the laptop with another arm, which the wall marker discloses - scores, tokens and cost are untouched by that, only the clock. Judge: blind Codex gpt-5.5, which is neither this model nor a sibling of it.
 
 ## GPT-5.6 Sol (max effort) - mean of 2
 

diff --git a/results/waves.md b/results/waves.md
@@ -4080,3 +4080,21 @@ model was `gemini-4-argon` on all of them.
 thinking billed as output) from the API's own per-call usage. Only 69% of prompt tokens were cache reads, against
 the high 90s typical on this board, and that is most of why the run cost $32. Repo 2 met Google's spend-rate limit
 for a new account a few times and was slowed, not stopped.
+
+## Muse Wonder Full 1.0 at xhigh — 44 of 105, level with max in half the time (Oct 14)
+
+One run of Muse Wonder Full one tier below max, same harness, route and judge as the max row.
+
+| Row | Runs | Score | Repo 1 | Repo 2 | Extras | Wall | Cost |
+|---|---|---|---|---|---|---|---|
+| Muse Wonder Full 1.0 (xhigh effort, Muse Code, Meta API) | 1 | **44** / 105 | 16 / 45 | 28 / 60 | 35 | 80.3 min | unknown |
+| Muse Wonder Full 1.0 (max effort, Muse Code, Meta API) | 1 | 44 / 105 | 22 / 45 | 22 / 60 | 53 | 138.2 min | unknown |
+
+**Same total, opposite split.** Max fixed six more planted bugs on repo 1; xhigh fixed six more on repo 2, and its
+28 of 60 there is among the highest repo-2 scores on this board. Xhigh used about 72 million tokens to max's 108
+and finished in a little over half the time. With one run of each, the two tiers are not separated by this bench;
+a second run of each is under way.
+
+**Clean.** No claimed fix that was not made, on either repo; 35 genuine bugs fixed outside the planted set.
+
+**Cost is left blank,** as on the max row: Meta publishes no rate for Full. The run used a subscription.
